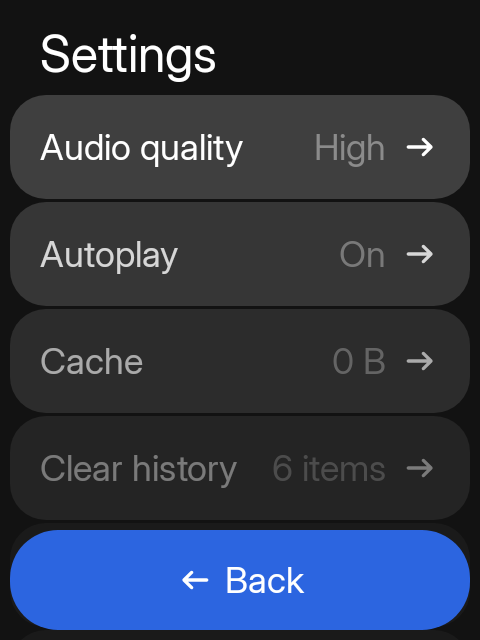
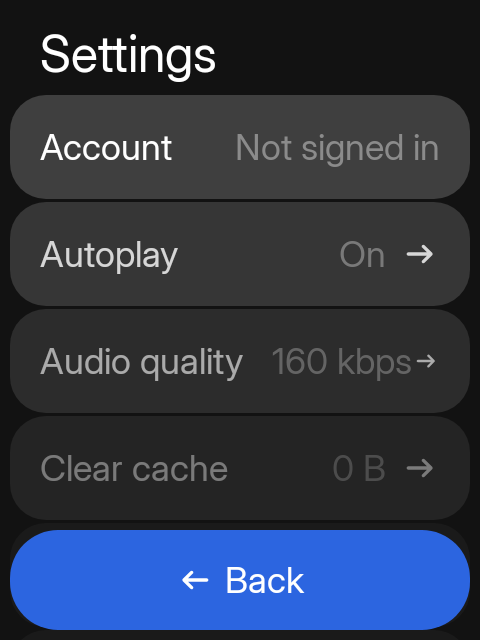
feat: add audio quality page and reorder settings

diff --git a/app/src/main/java/io/github/manuelrtsch/sideplay/SpotifySettingsScreens.kt b/app/src/main/java/io/github/manuelrtsch/sideplay/SpotifySettingsScreens.kt
@@ -28,7 +28,7 @@ import hrln.interactive.sidekit.design.components.SidekitText
 import hrln.interactive.sidekit.design.components.listFade
 import hrln.interactive.sidekit.design.theme.SidekitTheme
 
-private enum class SettingsConfirmation { SignOut, ClearHistory }
+private enum class SettingsConfirmation { SignOut, ClearCache, ClearHistory }
 
 @Composable
 fun SpotifySettingsScreen(
@@ -65,9 +65,17 @@ fun SpotifySettingsScreen(
             })
         )
 
+        SettingsConfirmation.ClearCache -> listOf(
+            SideAction.cancel("cancelClearCache", "Cancel") { confirmation = null },
+            SideAction.delete("confirmClearCache", "Clear", onClick = {
+                confirmation = null
+                onClearCache()
+            })
+        )
+
         SettingsConfirmation.ClearHistory -> listOf(
-            SideAction.cancel("cancelClear", "Cancel") { confirmation = null },
-            SideAction.delete("confirmClear", "Clear", onClick = {
+            SideAction.cancel("cancelClearHistory", "Cancel") { confirmation = null },
+            SideAction.delete("confirmClearHistory", "Clear", onClick = {
                 confirmation = null
                 onClearHistory()
             })
@@ -83,15 +91,12 @@ fun SpotifySettingsScreen(
         val first = remember { FocusRequester() }
         LaunchedEffect(Unit) { runCatching { first.requestFocus() } }
         SidekitList(padding, state = listState) {
-            item(key = "quality") {
+            item(key = "account") {
                 SideplayItem(
-                    "Audio quality",
+                    "Account",
                     Modifier.listFade(listState, 0).focusRequester(first),
-                    secondary = state.audioQuality.label,
-                    secondaryToEnd = true,
-                    showLinkArrow = true,
-                    showLinkArrowWithSecondary = true,
-                    onClick = onAudioQuality
+                    secondary = if (state.signedIn) "Signed in" else "Not signed in",
+                    secondaryToEnd = true
                 )
             }
             item(key = "autoplay") {
@@ -105,34 +110,38 @@ fun SpotifySettingsScreen(
                     onClick = onAutoplay
                 )
             }
+            item(key = "quality") {
+                SideplayItem(
+                    "Audio quality",
+                    Modifier.listFade(listState, 2),
+                    secondary = "${state.audioQuality.bitrateKbps} kbps",
+                    secondaryToEnd = true,
+                    secondaryNoEllipsis = true,
+                    showLinkArrow = true,
+                    showLinkArrowWithSecondary = true,
+                    onClick = onAudioQuality
+                )
+            }
             item(key = "cache") {
                 SideplayItem(
-                    "Cache",
-                    Modifier.listFade(listState, 2),
+                    "Clear cache",
+                    Modifier.listFade(listState, 3),
                     secondary = Formatter.formatShortFileSize(context, state.cacheSizeBytes),
                     secondaryToEnd = true,
                     showLinkArrow = true,
                     showLinkArrowWithSecondary = true,
-                    onClick = onClearCache
+                    onClick = { confirmation = SettingsConfirmation.ClearCache }
                 )
             }
             item(key = "history") {
                 SideplayItem(
                     "Clear history",
-                    Modifier.listFade(listState, 3),
+                    Modifier.listFade(listState, 4),
                     secondary = "${state.history.size} items",
                     secondaryToEnd = true,
                     showLinkArrow = true,
                     showLinkArrowWithSecondary = true,
                     onClick = { confirmation = SettingsConfirmation.ClearHistory }
-                )
-            }
-            item(key = "account") {
-                SideplayItem(
-                    "Account",
-                    Modifier.listFade(listState, 4),
-                    secondary = if (state.signedIn) "Signed in" else "Not signed in",
-                    secondaryToEnd = true
                 )
             }
             if (onAppearance != null) {
@@ -156,6 +165,46 @@ fun SpotifySettingsScreen(
                     showLinkArrow = true,
                     onClick = onAbout
                 )
+            }
+        }
+    }
+}
+
+@Composable
+fun SpotifyAudioQualityScreen(
+    state: SpotifyUiState,
+    onBack: () -> Unit,
+    onSelect: (AudioQuality) -> Unit,
+    onDismissNotice: () -> Unit
+) {
+    val actions = withNotice(
+        state.notice,
+        onDismissNotice,
+        listOf(SideAction.back("back", "Settings", onBack))
+    )
+    SidekitScaffold(
+        title = "Audio quality",
+        actions = actions
+    ) { padding ->
+        val listState = rememberLazyListState()
+        val first = remember { FocusRequester() }
+        LaunchedEffect(Unit) { runCatching { first.requestFocus() } }
+        SidekitList(padding, state = listState) {
+            AudioQuality.entries.forEachIndexed { index, quality ->
+                val selected = quality == state.audioQuality
+                item(key = quality.name) {
+                    SideplayItem(
+                        quality.label,
+                        Modifier.listFade(listState, index).then(
+                            if (index == 0) Modifier.focusRequester(first) else Modifier
+                        ),
+                        secondary = "${quality.bitrateKbps} kbps",
+                        secondaryToEnd = true,
+                        secondaryNoEllipsis = true,
+                        colour = if (selected) ItemColour.Secondary else ItemColour.Primary,
+                        onClick = { onSelect(quality) }
+                    )
+                }
             }
         }
     }

diff --git a/app/src/main/java/io/github/manuelrtsch/sideplay/SpotifyGraph.kt b/app/src/main/java/io/github/manuelrtsch/sideplay/SpotifyGraph.kt
@@ -42,6 +42,7 @@ private val SEARCH_SCOPES = "$ROOT/search/scopes"
 private val NOW_PLAYING = "$ROOT/now-playing"
 private val QUEUE = "$ROOT/queue"
 private val SETTINGS = "$ROOT/settings"
+private val AUDIO_QUALITY = "$ROOT/audio-quality"
 private val SIGN_IN = "$ROOT/sign-in"
 private val APPEARANCE = "$ROOT/appearance"
 private val ABOUT = "$ROOT/about"
@@ -404,7 +405,7 @@ fun NavGraphBuilder.sideplayGraph(nav: NavHostController) {
             SpotifySettingsScreen(
                 state,
                 onBack = { nav.popBackStack() },
-                onAudioQuality = vm::cycleAudioQuality,
+                onAudioQuality = { nav.navigate(AUDIO_QUALITY) },
                 onAutoplay = vm::toggleAutoplay,
                 onClearCache = vm::clearCache,
                 onClearHistory = vm::clearHistory,
@@ -415,6 +416,16 @@ fun NavGraphBuilder.sideplayGraph(nav: NavHostController) {
                 onDismissNotice = vm::dismissNotice,
                 onAppearance = if (hostAvailable) null else ({ nav.navigate(APPEARANCE) }),
                 onAbout = { nav.navigate(ABOUT) }
+            )
+        }
+        composable(AUDIO_QUALITY) { entry ->
+            val vm = entry.spotifyViewModel(nav)
+            val state by vm.state.collectAsStateWithLifecycle()
+            SpotifyAudioQualityScreen(
+                state,
+                onBack = { nav.popBackStack() },
+                onSelect = vm::setAudioQuality,
+                onDismissNotice = vm::dismissNotice
             )
         }
         composable(APPEARANCE) {

diff --git a/app/src/main/java/io/github/manuelrtsch/sideplay/SideplayItem.kt b/app/src/main/java/io/github/manuelrtsch/sideplay/SideplayItem.kt
@@ -4,6 +4,7 @@ import androidx.compose.foundation.layout.Arrangement
 import androidx.compose.foundation.layout.Box
 import androidx.compose.foundation.layout.Row
 import androidx.compose.foundation.layout.RowScope
+import androidx.compose.foundation.layout.Spacer
 import androidx.compose.foundation.layout.fillMaxWidth
 import androidx.compose.foundation.layout.padding
 import androidx.compose.runtime.Composable
@@ -29,6 +30,7 @@ fun SideplayItem(
     modifier: Modifier = Modifier,
     secondary: String? = null,
     secondaryToEnd: Boolean = false,
+    secondaryNoEllipsis: Boolean = false,
     icon: SidekitIcon? = null,
     showLinkArrow: Boolean = false,
     showLinkArrowWithSecondary: Boolean = false,
@@ -52,9 +54,10 @@ fun SideplayItem(
             if (icon != null) SidekitIconImage(icon)
             SidekitText(title, textDecoration = titleDecoration)
             if (secondary != null) {
+                if (secondaryNoEllipsis) Spacer(Modifier.weight(1f))
                 SidekitText(
                     secondary,
-                    Modifier.weight(1f),
+                    if (secondaryNoEllipsis) Modifier else Modifier.weight(1f),
                     color = SidekitTheme.colors.surfaceA6,
                     textAlign = if (secondaryToEnd) TextAlign.End else null
                 )

diff --git a/app/src/main/java/io/github/manuelrtsch/sideplay/SpotifyViewModel.kt b/app/src/main/java/io/github/manuelrtsch/sideplay/SpotifyViewModel.kt
@@ -713,10 +713,10 @@ class SpotifyViewModel(
         search(debounceMs = 0L)
     }
 
-    fun cycleAudioQuality() {
-        val next = _state.value.audioQuality.next()
-        _state.update { it.copy(audioQuality = next) }
-        session?.setAudioQuality(next)
+    fun setAudioQuality(quality: AudioQuality) {
+        if (quality == _state.value.audioQuality) return
+        _state.update { it.copy(audioQuality = quality) }
+        session?.setAudioQuality(quality)
     }
 
     fun toggleAutoplay() {

diff --git a/app/src/test/java/io/github/manuelrtsch/sideplay/SideplayScreenshotTest.kt b/app/src/test/java/io/github/manuelrtsch/sideplay/SideplayScreenshotTest.kt
@@ -229,6 +229,15 @@ class SideplayScreenshotTest {
         )
     }
 
+    @Test fun audioQuality() = shoot("sideplay_audio_quality") {
+        SpotifyAudioQualityScreen(
+            state,
+            onBack = {},
+            onSelect = {},
+            onDismissNotice = {}
+        )
+    }
+
     @Test fun about() = shoot("sideplay_about") {
         SideplayAboutScreen(onBack = {})
     }
